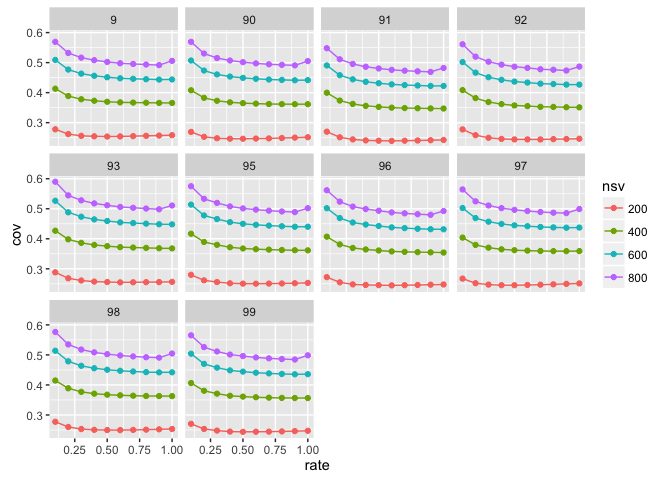
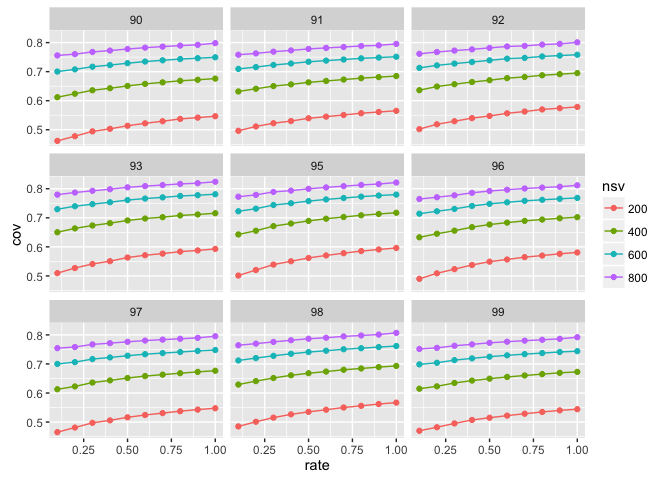
Edit facet-wrap graphs to 3 by 3

Changed region(s): [[0.0312, 0.0, 0.875, 0.9688], [0.1562, 0.625, 0.2188, 0.6562]]

diff --git a/Graph_Sparsification/Result/tf_sampling/matrix_sampling.md b/Graph_Sparsification/Result/tf_sampling/matrix_sampling.md
@@ -138,13 +138,21 @@ head(tf_summary)
 
 ## Result
 
+Excluding id 9 to make the facet-wrap 3 by 3. Don't worry, it's not an outlier. 
+
+```r
+tf_summary <- tf_summary[tf_summary$id != "9",]
+tfidf_summary <- tfidf_summary[tfidf_summary$id != "9",]
+```
+
+
 
 ```r
 # Plot the one for tf 
 ggplot(tf_summary, aes(x = rate, y = cov, colour = nsv, group = nsv)) + geom_point() + geom_line() + facet_wrap(~id)
 ```
 
-![](matrix_sampling_files/figure-html/unnamed-chunk-7-1.png)\
+![](matrix_sampling_files/figure-html/unnamed-chunk-8-1.png)\
 From this plot we can see that lower sampling rate result in smaller coverage, which is measured by taking the ratio of the variance (of given number of singular values) and forbenius norm. The lines are relatively flat and this is consistent across different matrices. This means we could sample the matrix and the same number of singular values would still be representative enough compare to a matrix that's not sampled. 
 
 
@@ -153,7 +161,7 @@ From this plot we can see that lower sampling rate result in smaller coverage, w
 ggplot(tfidf_summary, aes(x = rate, y = cov, colour = nsv, group = nsv)) + geom_point() + geom_line() + facet_wrap(~id)
 ```
 
-![](matrix_sampling_files/figure-html/unnamed-chunk-8-1.png)\
+![](matrix_sampling_files/figure-html/unnamed-chunk-9-1.png)\
 
 After some thoughts, I realize that sampling the matrix by taking a subset of the word occurences using a probability rate AND THEN convert the result into TFIDF doesn't really make sense. 
 
